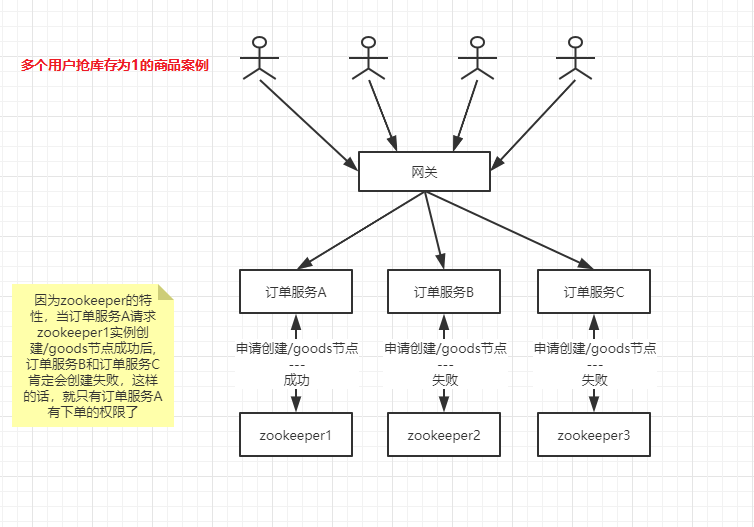
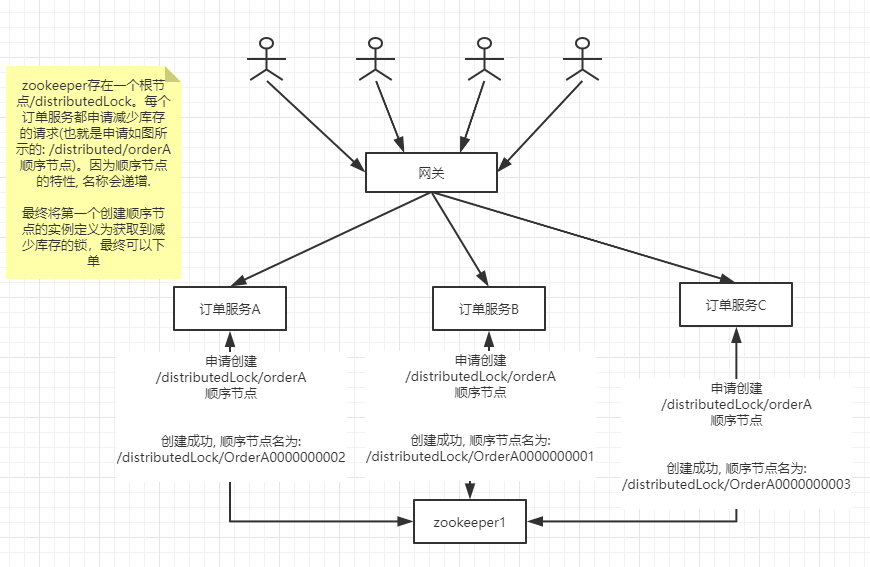
新增分布式锁相关总结

diff --git a/zookeeper/README.md b/zookeeper/README.md
@@ -452,7 +452,7 @@ clientPort=2181
   1. 分布式锁
 
      ```
-     在秒杀系统中, 多个用户抢占数量为1的商品，我们采取锁表的机制是不可取的。因为系统会变得非常慢。这个时候我们可以借助zookeeper，当用户下单时，因为集群的原因，可能会有不同的用户下单的请求到达不同的服务器上。这个时候，我们可以将在下单操作执行前先跟zookeeper交互一下(zookeeper肯定也是集群的), 于是每个服务器跟zookeeper的交互可能会在不同的zookeeper实例中。那这个时候，哪个服务器在zookeeper中成功的创建了一个节点，那就说明这个服务器有下单的权限，进而进行下单操作。在这个创建节点的过程中，就是分布式锁的精髓
+     在秒杀系统中, 多个用户抢占数量为1的商品，我们采取锁表的机制是不可取的。因为系统会变得非常慢。这个时候我们可以借助zookeeper，当用户下单时，因为集群的原因，可能会有不同的用户下单的请求到达不同的服务器上。这个时候，我们可以在下单操作执行前先跟zookeeper交互一下。我们定义这样一套规则: 若现在存在一个父节点`/distributedLock`, 然后在下单需要减少库存的时候，首先都要去zookeeper的`/distributedLock`节点下创建一个顺序节点(顺序节点是唯一且递增的)，我们认为创建的第一个顺序节点(节点名字最小)就是拿到了减少库存的锁,那就说明有下单的权限，进而进行下单操作。在这个创建顺序节点的过程中，就是分布式锁的精髓
      ```
      ![秒杀库存为1的商品.png](https://github.com/AvengerEug/distributed/blob/develop/zookeeper/秒杀库存为1的商品.png)
      
